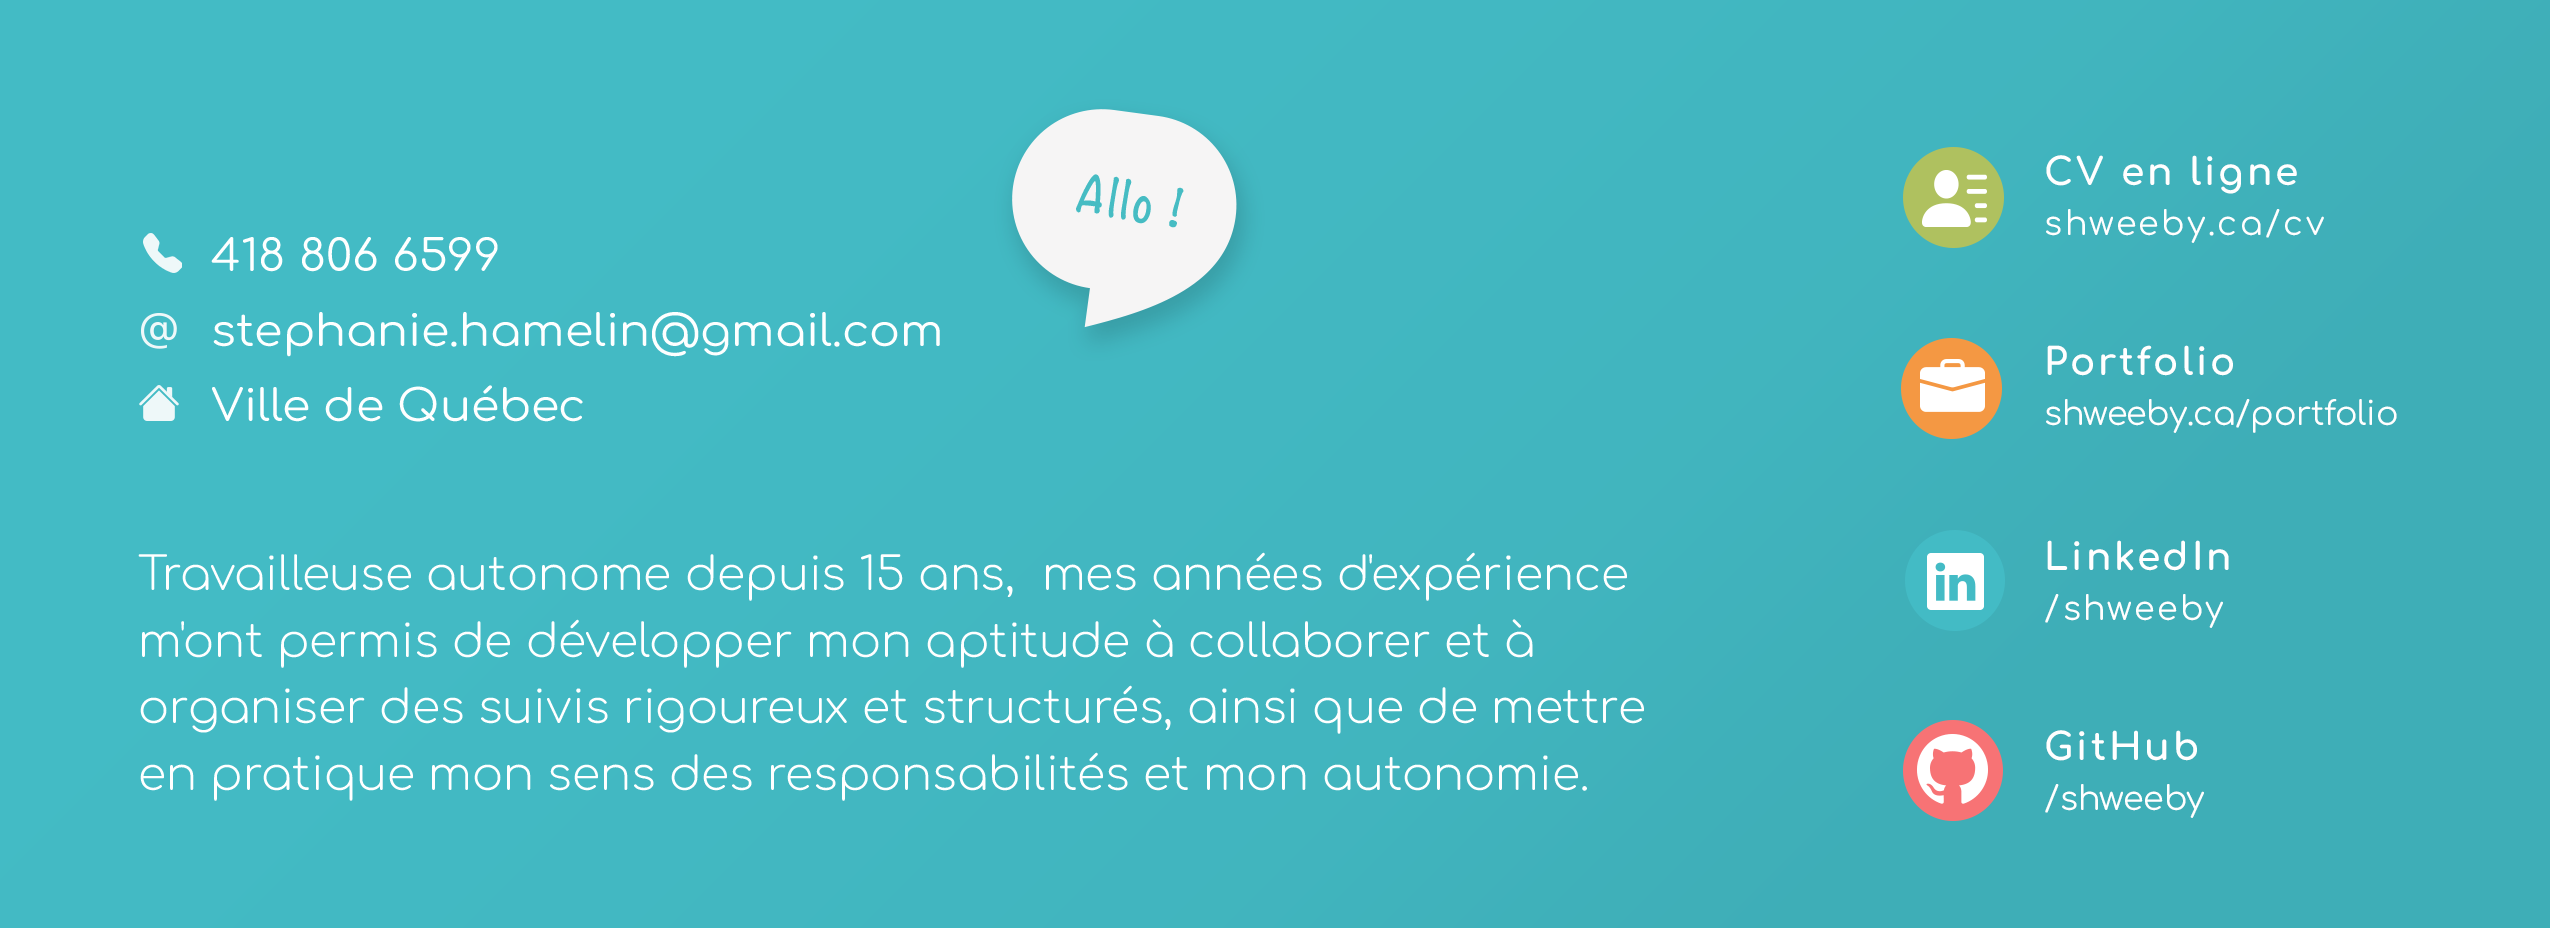
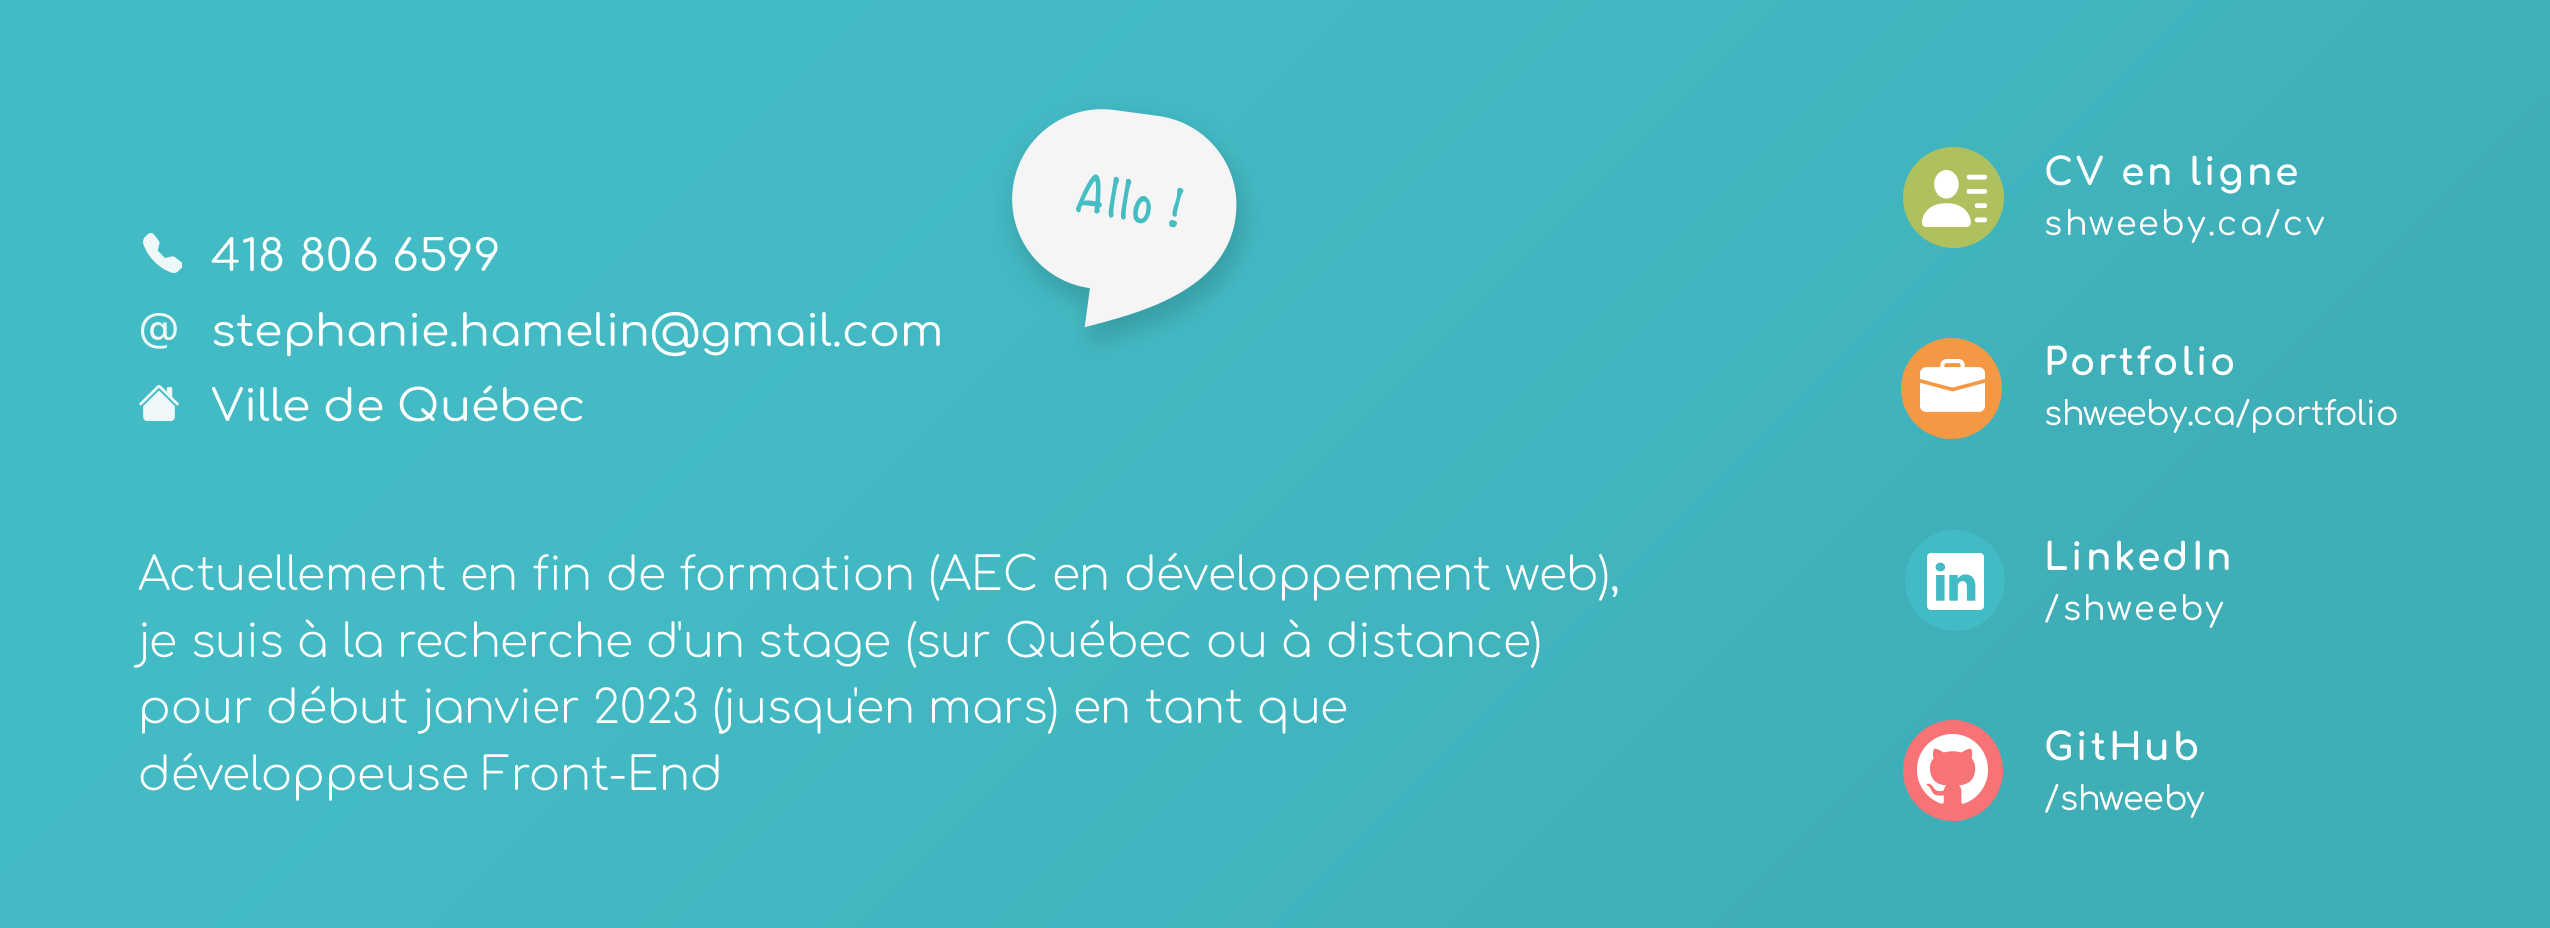
Changement du résumé

Changed region(s): [[0.031, 0.5938, 0.6506, 0.7812], [0.062, 0.8125, 0.6196, 0.875]]

diff --git a/README.md b/README.md
@@ -2,8 +2,6 @@
 
 # À propos de moi 
 
-Actuellement en fin de formation (AEC en développement web), je suis à la recherche d'un stage (sur Québec ou à distance) pour début janvier 2023 (jusqu'en mars) en tant que développeuse Front-End
-
 Vous trouverez ici quelques projets que j'ai réalisés dans le cadre de mon AEC, que ce soit en graphisme, en intégration, programmation ou autre :
 
 ### Graphisme 
@@ -14,7 +12,10 @@ Vous trouverez ici quelques projets que j'ai réalisés dans le cadre de mon AEC
 
 ### Animation 
 
+- [Projet 1 : xxx](https://github.com/Shweeby/aec-sess2-anim-projet1)
+- [Projet 2 : xxx](https://github.com/Shweeby/aec-sess2-anim-projet2)
 - [Projet 3 : Animation d'un logo](https://github.com/Shweeby/aec-sess2-anim-projet3)
+- [Projet 4 : xxx](https://github.com/Shweeby/aec-sess2-anim-projet4)
 
 ### Intégration 
 
